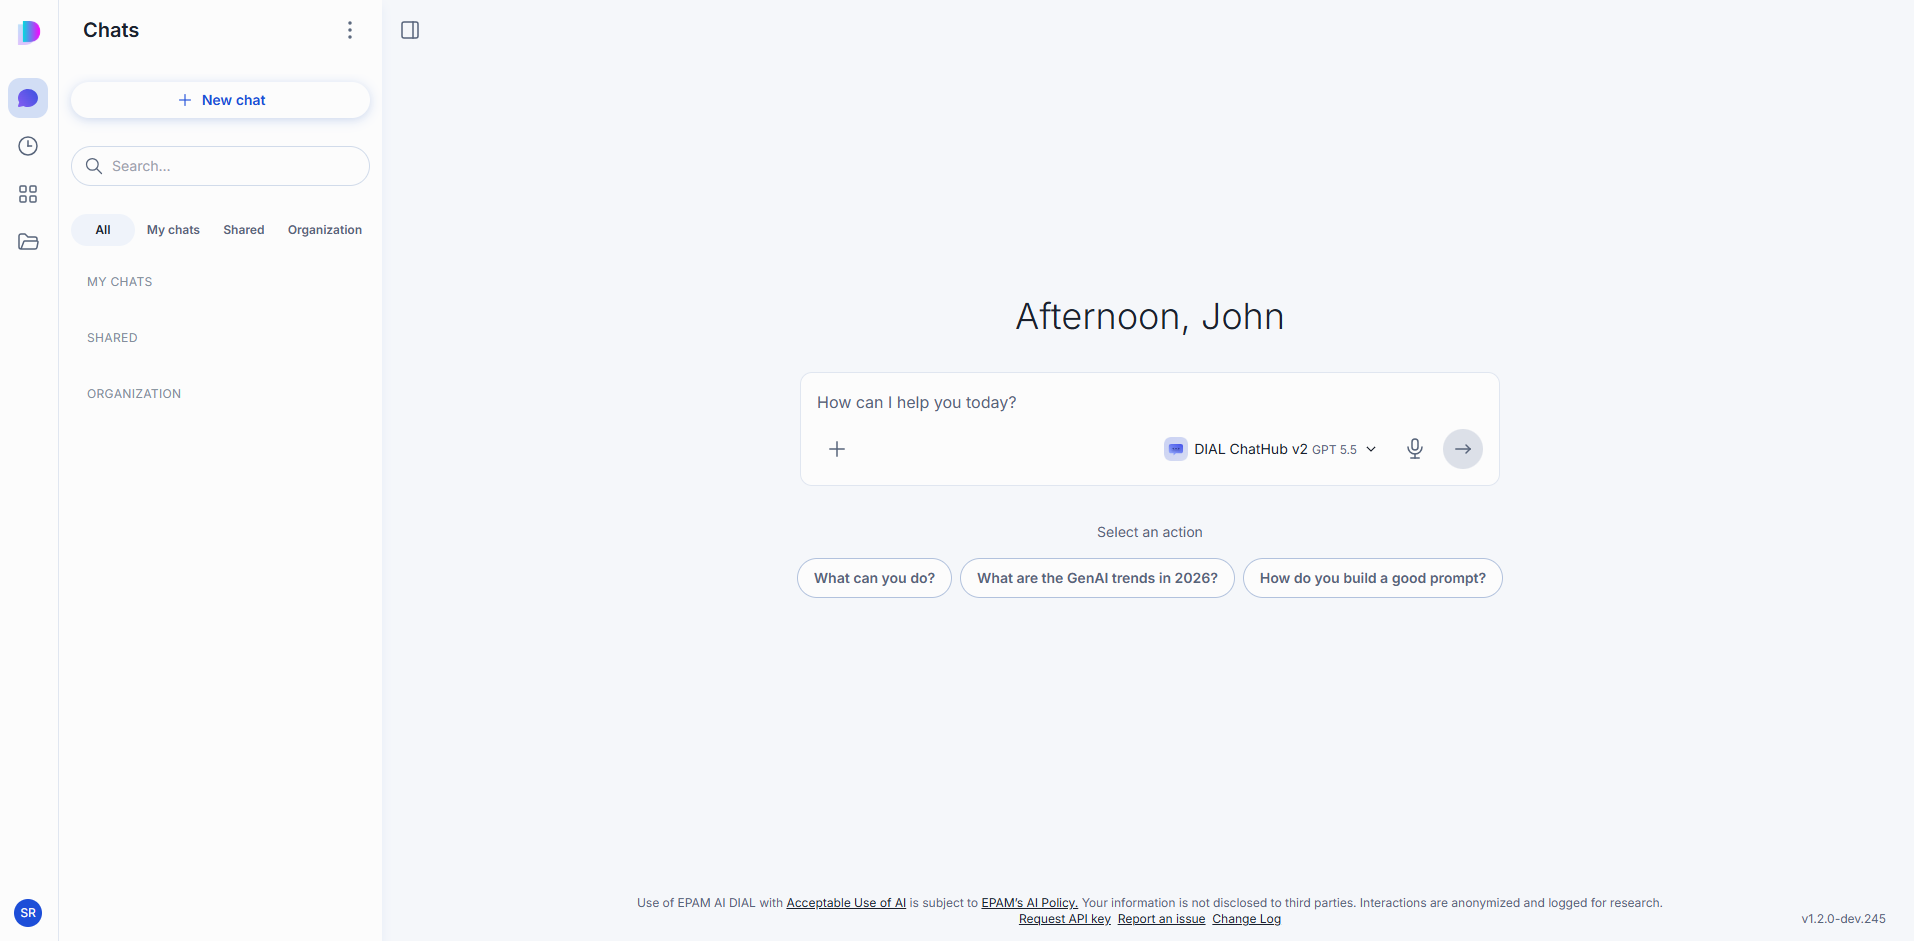
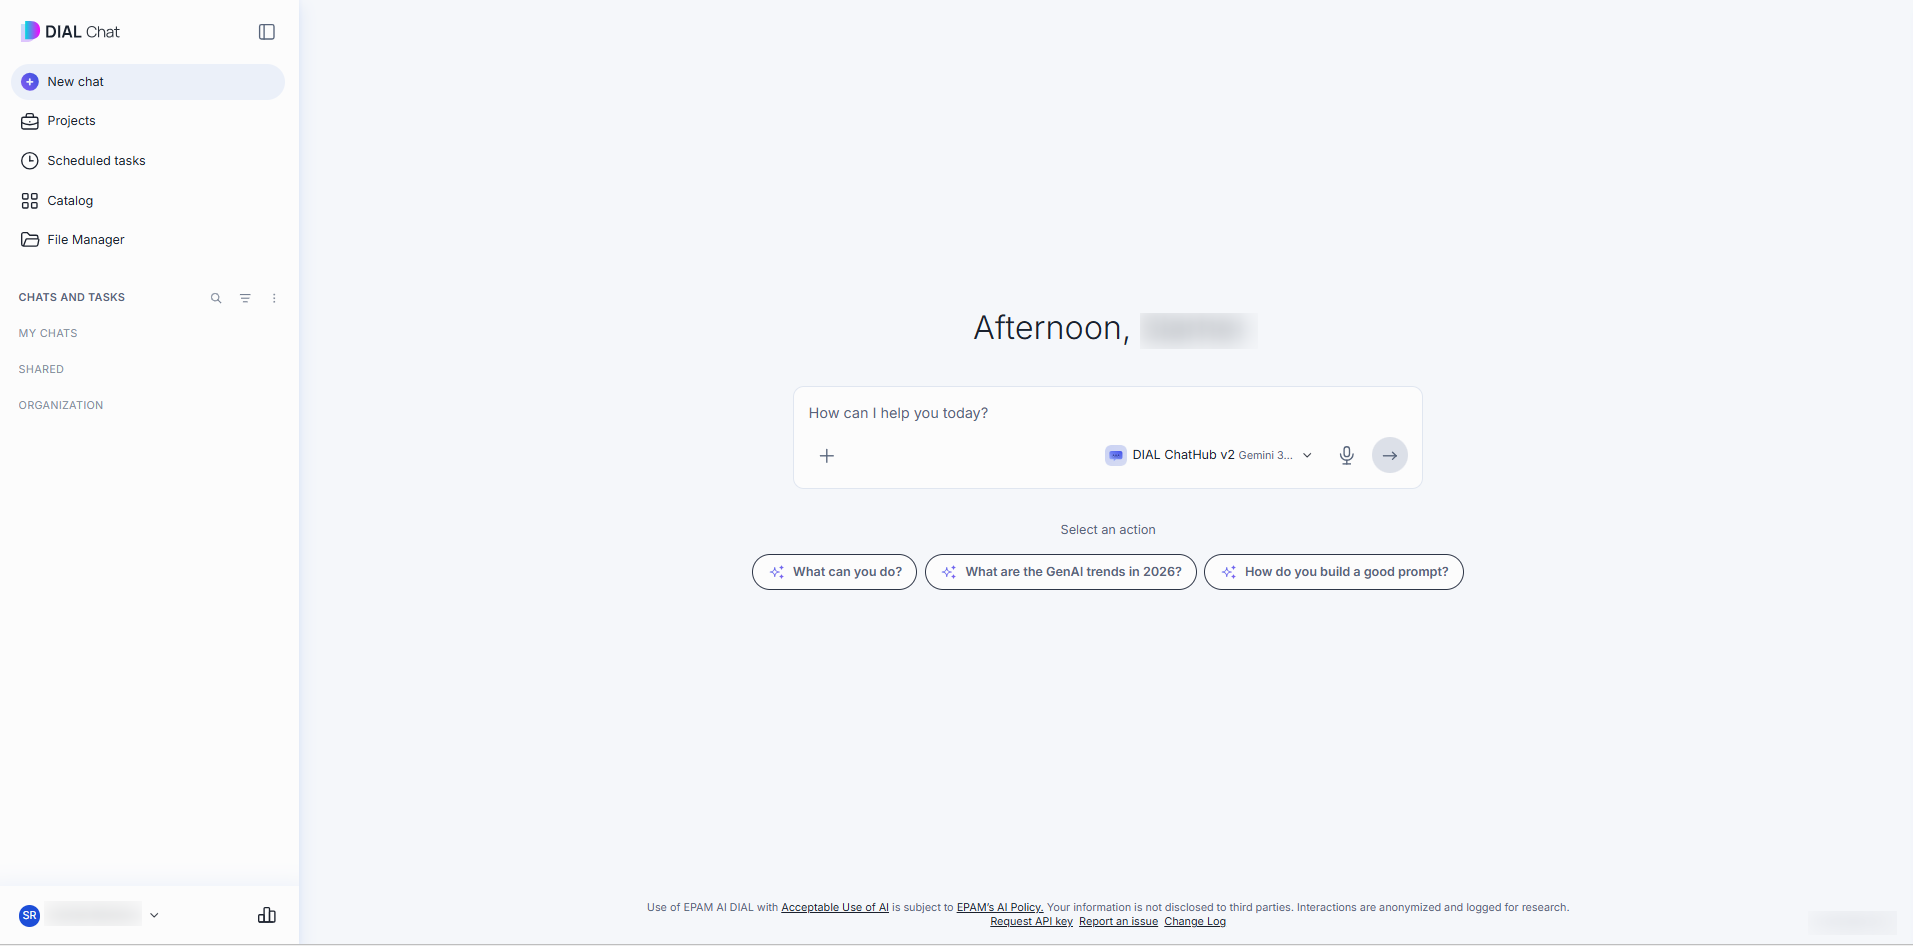
updated usage and settings

diff --git a/docs_v2/chat-user-guide-new/6.usage-and-settings.md b/docs_v2/chat-user-guide-new/6.usage-and-settings.md
@@ -3,19 +3,24 @@ title: "Usage and settings"
 type: user-guide
 persona: end-user
 component: chat
-last_verified: 2026-10-05
+last_verified: 2026-10-29
 owner: "@dial-docs-team"
 ---
 
 # Usage and settings
 
-Your personal settings and usage numbers live in one place, separate from the Catalog and the File Manager. Open it from your account icon in the bottom corner of the navigation rail, then **Settings**.
+Your personal settings and usage numbers are separate from the Catalog and the File Manager. Both are in the bottom-left corner of the sidebar:
 
-It has two tabs: **Preferences**, where you set how the chat behaves for you, and **Usage**, where you see what you've spent against your limits.
+1. Click your name to open the user menu, then click **Settings**.
+2. Click the bar-chart icon next to your name to open **Usage**.
+
+![The user menu with Settings, and the Usage icon beside it](img/settings.png)
+
+**Settings** has up to two tabs: **Preferences**, where you set how the chat behaves for you, and **Extensions**, where you manage the sign-in that lets scheduled tasks run while you are away. **Usage** is a separate page, where you see what you've spent against your limits.
 
 ## Preferences
 
-The Preferences tab has three settings: **Theme**, **Keyboard shortcuts**, and **Default agent for new chats**.
+The Preferences tab has three settings: **Theme**, **Keyboard shortcuts**, and **Default agent for new chats**. A **Seasonal celebrations** switch appears below them when your deployment runs a seasonal event.
 
 ![The Preferences tab: Theme, Keyboard shortcuts, and Default agent for new chats](img/settings-preferences.png)
 
@@ -43,11 +48,13 @@ Your choice is remembered in the current browser. If you've never picked one, th
 
 This only sets the starting point for a **new** conversation. You can still switch agents before or during any conversation — see [Choose and change the agent](./1.conversations.md#select-an-agent).
 
+**Seasonal celebrations** turns the holiday decorations and animations on the start page on or off. The switch appears only while your deployment has a seasonal event enabled. Your choice is remembered in the current browser. Until you make one, the deployment's default applies.
+
 ## Usage
 
-The Usage tab shows what you've used against the limits your administrator set, for three periods: **Today**, **This week**, and **This month**. These are calendar periods, not rolling windows — each resets on its own UTC boundary, so a new day doesn't reset your weekly or monthly totals.
+The Usage page shows what you've used against the limits your administrator set, for three periods: **Today**, **This week**, and **This month**. These are calendar periods, not rolling windows — each card shows when its period resets, so a new day doesn't reset your weekly or monthly totals.
 
-![The Usage tab: three spending cards and the Model tokens limits table](img/settings-usage.png)
+![The Usage page: three spending cards and the Model tokens limits table](img/usage.png)
 
 The three cards at the top show your overall cost against your overall cost limit for each period, with how much is left and a status badge:
 
@@ -59,6 +66,30 @@ The three cards at the top show your overall cost against your overall cost limi
 
 **Note**
 > Cost, tokens, and requests are metered independently, and each can carry its own limit. A model can be within its token limit while over its cost limit, or the reverse. Check with your administrator how the limits for your account were set.
+
+### Usage in a conversation
+
+Your administrator can show your usage next to the message composer, so you see it while you chat:
+
+- **Usage dial** — a small gauge beside the composer. It shows the share of the limit that is closest to running out for the selected agent, and its color changes as you approach the limit. Click it to open a popover titled with the agent's name. The popover lists the agent's **Token limits** and the **Cost limits** for all agents, for each period. Click **See all usage** to open the Usage page. The dial is available only when your administrator turns it on.
+- **Warning banner** — a notice above the composer when you are close to a limit, for example "Daily limit 80% used." It appears at 75% by default, and your administrator can change that. When a limit is used up, the notice reads, for example, "Daily limit reached." Click the close icon to dismiss it. The banner shows while the usage dial is off.
+
+**Note**
+> Your administrator can hide the Usage page. The **See all usage** link and the bar-chart icon then disappear.
+
+## Extensions
+
+The **Extensions** tab in Settings appears when scheduled tasks are enabled in your deployment. It lists the services DIAL Chat uses to act for you while you are away. Today it has one row, **Dial native**, with its **Name**, a **Description**, and an action.
+
+![The Extensions tab, with the Dial native service and its Log out button](img/settings-extensions.png)
+
+**Dial native** is your own DIAL account, connected for offline access. When you log in, you let DIAL act on your behalf without you being present, which is what lets a [scheduled task](./2.scheduled-tasks.md) run at its scheduled time. The row's description reads "Provides access to built-in apps within the platform."
+
+Logging in is not enough on its own. An administrator must also approve this access for the whole organization, once.
+
+- **Log in** — shown when you are signed out. It opens a sign-in window, so allow pop-ups for DIAL Chat if your browser blocks it.
+- **Log out** — shown when you are signed in. DIAL Chat asks you to confirm, because you lose access to the built-in apps until you log back in, and your scheduled tasks no longer run automatically.
+- **Limited access** — a red badge shown instead of the buttons when the administrator's approval is missing or has been withdrawn. You can't create, edit, or run scheduled tasks until an administrator restores it, and logging in does not help. Contact your administrator.
 
 ## Next steps
 

diff --git a/docs_v2/chat-user-guide-new/0.index.md b/docs_v2/chat-user-guide-new/0.index.md
@@ -15,13 +15,18 @@ DIAL Chat is the default conversational interface for DIAL. From a single applic
 
 ## Interface areas
 
-The interface is organized into three sections, accessible from the navigation rail on the left:
+The interface is organized around the sidebar on the left. Its top section links to the main areas, and the **Chats and tasks** list below it holds your conversations:
 
-- **Chats** — your conversations with AI models and agents, grouped into **My chats**, **Shared**, and **Organization**. The central chat area is where you compose messages, view responses, pick an agent, and attach files. See [Conversations](./1.conversations.md).
+- **New chat** and **Chats** — your conversations with AI models and agents, grouped into **My chats**, **Shared**, and **Organization**. The central chat area is where you compose messages, view responses, pick an agent, and attach files. See [Conversations](./1.conversations.md).
+- **Scheduled tasks** — messages that DIAL Chat sends for you on a schedule. Shown only when your deployment enables them. See [Scheduled tasks](./2.scheduled-tasks.md).
 - **Catalog** — all models, agents, toolsets, skills, and prompts available in your environment. Browse, favorite, and create new ones. See [Catalog](./3.catalog/0.index.md).
 - **File Manager** — upload, organize, and manage files you use in conversations. See [File Manager](./4.files.md).
 
-![DIAL Chat home screen showing the navigation rail, the Chats section, and the message composer](img/home.png)
+![DIAL Chat home screen showing the sidebar, the Chats and tasks list, and the message composer](img/home.png)
+
+Your account, **Settings**, and the **Usage** page are at the bottom of the sidebar. See [Usage and settings](./6.usage-and-settings.md). Click the sidebar icon at the top to collapse the sidebar to icons, and click it again to expand it. Your administrator can turn this control off.
+
+![The collapsed sidebar with its icons](img/nav-rail.png)
 
 Some applications replace the standard chat interface entirely with a custom UI — for example, a mind-map application renders an interactive canvas instead of a message thread.
 

diff --git a/docs_v2/chat-user-guide-new/2.scheduled-tasks.md b/docs_v2/chat-user-guide-new/2.scheduled-tasks.md
@@ -13,11 +13,11 @@ A scheduled task is a message that DIAL Chat sends for you on a schedule. You pi
 
 Use it for work you would otherwise repeat by hand: have an agent summarize overnight support tickets every morning, generate a weekly project status report from your team's updates, or check a competitor's pricing page daily and flag changes.
 
-> Scheduled tasks are an optional feature. If the clock icon is missing from the navigation rail, your deployment has not enabled it.
+> Scheduled tasks are an optional feature. If **Scheduled tasks** is missing from the sidebar, your deployment has not enabled it.
 
 ## The task list
 
-Select the clock icon in the navigation rail. The page lists your tasks as cards.
+Click **Scheduled tasks** in the sidebar. The page lists your tasks as cards.
 
 ![The Scheduled tasks page with two task cards, a search box, and the sort menu](img/scheduled-tasks-list.png)
 

diff --git a/docs_v2/chat-user-guide-new/1.conversations.md b/docs_v2/chat-user-guide-new/1.conversations.md
@@ -24,7 +24,7 @@ There are several ways to start a conversation:
 - In the [Catalog](./3.catalog/0.index.md), open an agent and click **Use in chat**.
 - Some applications display starter buttons near the message composer with predefined prompts. Click one to begin a conversation with that prompt.
 
-![DIAL Chat home screen showing the Chats panel, the navigation rail, and the message composer](img/home.png)
+![DIAL Chat home screen showing the sidebar with the Chats and tasks list, and the message composer](img/home.png)
 
 **Note**
 > New conversations appear in the **Chats** panel on the left. If you start a conversation and close it while it is still empty, it is neither displayed nor saved.

diff --git a/docs_v2/chat-user-guide-new/3.catalog/0.index.md b/docs_v2/chat-user-guide-new/3.catalog/0.index.md
@@ -11,7 +11,7 @@ owner: "@dial-docs-team"
 
 The Catalog is the single place where you find everything you can work with in DIAL Chat: AI models, agents, toolsets, skills, and prompts. It combines items configured by your organization for this DIAL deployment with items published by other users and items you created yourself. What you see depends on your role — your own items are always visible, and everything else is governed by the permissions your administrator assigned to you.
 
-Open the Catalog from the navigation rail on the left.
+Click **Catalog** in the sidebar on the left.
 
 From the Catalog you can:
 
